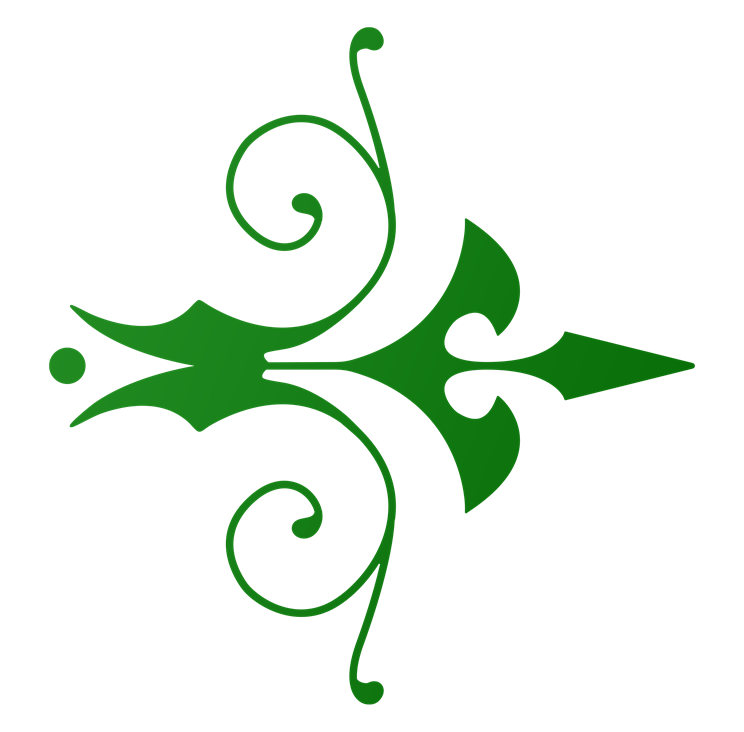
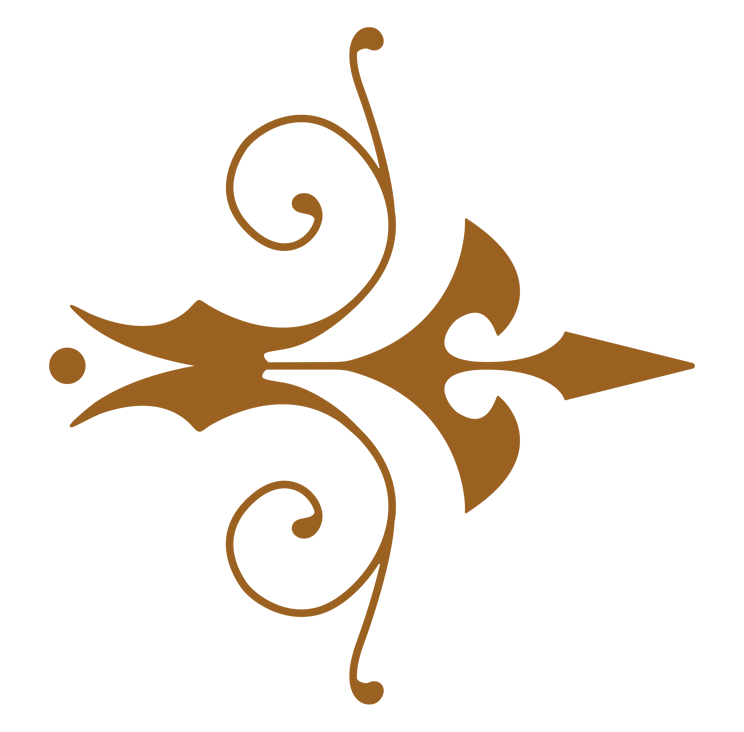
color changes

diff --git a/src/components/Home/Home.scss b/src/components/Home/Home.scss
@@ -29,18 +29,21 @@
       width: 200px;
     }
     .homeText {
-      .hometitle {
-        font-family: "Lalezar", serif;
-        font-weight: 500;
-        font-size: 70px;
-        background: linear-gradient(0deg, #ffffff, #00ff1e);
-        -webkit-background-clip: text; 
-        -webkit-text-fill-color: transparent; /* Make text transparent */
-        text-shadow: 2px 2px 4px rgba(0, 0, 0, 0.3); /* Subtle shadow for depth */
-        text-align: center; /* Center the text */
-        margin: 0; /* Remove default margin */
-        padding: 20px 0; /* Add some padding for spacing */
-    }
+   .hometitle {
+    font-family: "Lalezar", serif;
+    font-size: 80px;
+    font-weight: 400;
+    text-align: center;
+
+    color: var(--primary); /* Your gold-orange */
+    text-shadow:
+        // 0 0 1px #ffffff,
+        0 0 2px #ffffff,
+        0 3px 6px rgba(255, 255, 255, 0.6); 
+}
+
+
+
       // margin-top: -40px;
       height: 100vh;
       display: flex;

diff --git a/src/components/Home/Home.css b/src/components/Home/Home.css
@@ -32,18 +32,14 @@
 }
 .mainContainer .main .homeText .hometitle {
   font-family: "Lalezar", serif;
-  font-weight: 500;
-  font-size: 70px;
-  background: linear-gradient(0deg, #ffffff, #13fe59e3);
-  -webkit-background-clip: text;
-  -webkit-text-fill-color: transparent; /* Make text transparent */
-  text-shadow: 2px 2px 4px rgba(0, 0, 0, 0.3); /* Subtle shadow for depth */
-  text-align: center; /* Center the text */
-  margin: 0; /* Remove default margin */
-  padding: 20px 0; /* Add some padding for spacing */
+  font-size: 80px;
+  font-weight: 400;
+  text-align: center;
+  color: var(--primary); /* Your gold-orange */
+  text-shadow: 0 0 2px #ffffff, 0 3px 6px rgba(255, 255, 255, 0.6); /* Strong contrast shadow */
 }
 .mainContainer .main .homeText .mainText0 img {
-  width: 30px;
+  width: 300px;
   margin: 15px 0;
 }
 .mainContainer .main .homeText .DesText {

diff --git a/src/components/taqrirView/taqrirView.jsx b/src/components/taqrirView/taqrirView.jsx
@@ -190,7 +190,7 @@ export default function TaqrirView() {
             disabled={currentPage === 0}
             style={{
               padding: '10px 15px',
-              backgroundColor: currentPage ? 'green' : 'lightgray',
+              backgroundColor: currentPage ? '#9a6121' : 'lightgray',
               color: 'white',
               border: '1px solid #ddd',
               borderRadius: '5px',
@@ -217,8 +217,9 @@ export default function TaqrirView() {
               borderRadius: '5px',
               border: 'none',
               cursor: 'pointer',
+              color:'white',
               appearance: 'none',
-              backgroundColor: 'rgba(0, 128, 0, 0.200)',
+              backgroundColor: '#9a6121',
             }}
           >
             بعدی

diff --git a/src/components/topics_card/topics_card.scss b/src/components/topics_card/topics_card.scss
@@ -76,7 +76,7 @@
           left: 0;
           width: 100%;
           height: 100%;
-          background: linear-gradient(135deg, rgba(0, 100, 0, 0.8), rgba(34, 139, 34, 0.6));
+          background: linear-gradient(135deg,#ec81061d,var(--primary));
           opacity: 0;
           transition: opacity 0.5s ease;
           z-index: -1;
@@ -85,7 +85,7 @@
         /* Hover Effects */
         &:hover {
           transform: translateY(-10px);
-          box-shadow: 0 8px 30px rgba(0, 100, 0, 0.3);
+          box-shadow: 0 8px 30px  #ec81061d;
 
           &::before {
             opacity: 1;

diff --git a/src/components/topics_card/topics_card.css b/src/components/topics_card/topics_card.css
@@ -73,14 +73,14 @@
   left: 0;
   width: 100%;
   height: 100%;
-  background: linear-gradient(135deg, rgba(0, 100, 0, 0.8), rgba(34, 139, 34, 0.6));
+  background: linear-gradient(135deg, rgba(236, 129, 6, 0.1137254902), var(--primary));
   opacity: 0;
   transition: opacity 0.5s ease;
   z-index: -1;
 }
 .topics_card .contents .elements .element-card:hover {
   transform: translateY(-10px);
-  box-shadow: 0 8px 30px rgba(0, 100, 0, 0.3);
+  box-shadow: 0 8px 30px rgba(236, 129, 6, 0.1137254902);
 }
 .topics_card .contents .elements .element-card:hover::before {
   opacity: 1;

diff --git a/src/components/NavBar/NavBar.scss b/src/components/NavBar/NavBar.scss
@@ -134,7 +134,7 @@
 
 /* Ensure the dropdown text color changes on hover */
 .nav_main_color .dropdown-item:hover {
-  color: rgba(0, 128, 0, 0.545)  !important; /* Change this to the desired hover text color */
+  color: #ec8106e0  !important; 
 }
 .nav_main_color{
   background-color: var(--primary);
@@ -290,7 +290,7 @@
     }
     .navbar-collapse {
       .navButton {
-       color: rgba(0, 128, 0, 0.625);
+       color: var(--primary);
         display: flex !important;
         align-items: center;
         .line{

diff --git a/src/components/NavBar/NavBar.css b/src/components/NavBar/NavBar.css
@@ -108,7 +108,7 @@
 
 /* Ensure the dropdown text color changes on hover */
 .nav_main_color .dropdown-item:hover {
-  color: rgba(0, 128, 0, 0.545) !important; /* Change this to the desired hover text color */
+  color: rgba(236, 129, 6, 0.8784313725) !important;
 }
 
 .nav_main_color {
@@ -236,7 +236,7 @@
     display: none;
   }
   .navbar .navbar-collapse .navButton {
-    color: rgba(0, 128, 0, 0.625);
+    color: var(--primary);
     display: flex !important;
     align-items: center;
   }

diff --git a/src/components/footer/footer.scss b/src/components/footer/footer.scss
@@ -35,8 +35,12 @@
     }
    h5{
     text-align: right;
-    color: yellow;
+    color: var(--primary);
     font-weight: bolder;
+     text-shadow:
+        0 0 1px #ffffff,
+        0 0 2px #ffffff,
+        // 0 3px 6px rgba(255, 255, 255, 0.6); /* Strong contrast shadow */
    }
    .first p, .second p, .third p ,.fourth p     {
     text-align: right;

diff --git a/src/components/feedback/feedback.css b/src/components/feedback/feedback.css
@@ -8,7 +8,7 @@
 }
 .mainFeedback {
   width: 100%;
-  background: linear-gradient(to top, rgba(36, 200, 36, 0.357), rgba(255, 255, 255, 0.082), rgba(255, 255, 255, 0.068));
+  background: linear-gradient(to top, --primary rgba(255, 255, 255, 0.082), rgba(255, 255, 255, 0.068));
   height: 85vh;
   background-repeat: no-repeat;
   background-size: cover;

diff --git a/src/components/footer/footer.css b/src/components/footer/footer.css
@@ -35,8 +35,9 @@
 }
 .links h5 {
   text-align: right;
-  color: yellow;
+  color: var(--primary);
   font-weight: bolder;
+  text-shadow: 0 0 1px #ffffff, 0 0 2px #ffffff;
 }
 .links .first p, .links .second p, .links .third p, .links .fourth p {
   text-align: right;

diff --git a/src/components/NavBar/NavBar.jsx b/src/components/NavBar/NavBar.jsx
@@ -136,6 +136,7 @@ export default function NavBar() {
                 کتاب ها و رساله ها
               </HashLink>
 
+              <span className="line">|</span>
 
               {/* <span className="line">|</span>
               <Nav.Link

diff --git a/src/components/feedback/feedback.scss b/src/components/feedback/feedback.scss
@@ -12,7 +12,7 @@
   width: 100%;
   background: linear-gradient(
     to top,
-    rgba(36, 200, 36, 0.357),
+    --primary,
     rgba(255, 255, 255, 0.082),
     rgba(255, 255, 255, 0.068)
   );
